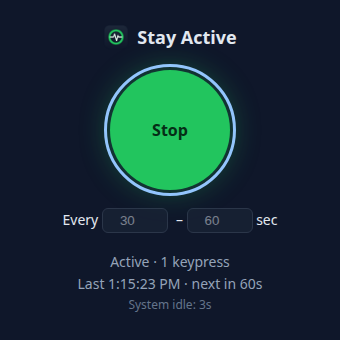
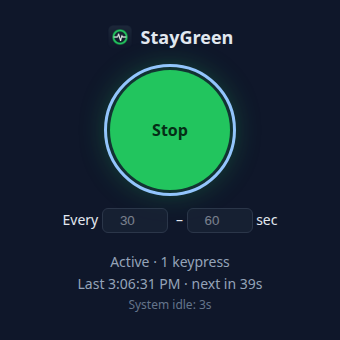
Rename to StayGreen

Changed region(s): [[0.2941, 0.0882, 0.7059, 0.1471], [0.3235, 0.8235, 0.4706, 0.8529], [0.7059, 0.8235, 0.7647, 0.8529]]

diff --git a/main.js b/main.js
@@ -11,7 +11,7 @@ const PRESS = {
 }[process.platform];
 
 const HINT = {
-  darwin: 'Grant Accessibility to Stay Active: System Settings → Privacy & Security → Accessibility',
+  darwin: 'Grant Accessibility to StayGreen: System Settings → Privacy & Security → Accessibility',
   win32: 'PowerShell failed to send a key',
   linux: 'Install xdotool (sudo apt install xdotool); Wayland is not supported',
 }[process.platform];
@@ -61,7 +61,7 @@ const show = () => (win.show(), win.focus());
 
 function updateTray() {
   if (!tray) return;
-  tray.setToolTip(on ? `Stay Active: on (${count} keypresses)` : 'Stay Active: off');
+  tray.setToolTip(on ? `StayGreen: on (${count} keypresses)` : 'StayGreen: off');
   tray.setContextMenu(Menu.buildFromTemplate([
     { label: 'Show window', click: show },
     { label: on ? 'Stop' : 'Start', click: () => (on ? stop() : start(range)) },
@@ -77,9 +77,9 @@ app.on('second-instance', () => win && show());
 app.whenReady().then(() => {
   // Chromium can't paint into a desktop session it doesn't own: as root the window comes up empty.
   if (process.platform === 'linux' && process.getuid() === 0) {
-    const msg = 'Don\'t run Stay Active as root. Start it as your normal desktop user (no sudo).';
+    const msg = 'Don\'t run StayGreen as root. Start it as your normal desktop user (no sudo).';
     console.error(msg);
-    dialog.showErrorBox('Stay Active', msg);
+    dialog.showErrorBox('StayGreen', msg);
     return app.exit(1);
   }
   const icon = nativeImage.createFromPath(path.join(__dirname, 'icon.png'));
@@ -89,7 +89,7 @@ app.whenReady().then(() => {
 
   win = new BrowserWindow({
     width: 340, height: 340, useContentSize: true, resizable: false, autoHideMenuBar: true,
-    title: 'Stay Active', backgroundColor: '#0f172a', icon,
+    title: 'StayGreen', backgroundColor: '#0f172a', icon,
     webPreferences: { preload: path.join(__dirname, 'preload.js') },
   });
   win.loadFile('index.html');

diff --git a/index.html b/index.html
@@ -3,7 +3,7 @@
 <head>
 <meta charset="utf-8">
 <meta http-equiv="Content-Security-Policy" content="default-src 'self'; style-src 'unsafe-inline'; script-src 'unsafe-inline'">
-<title>Stay Active</title>
+<title>StayGreen</title>
 <style>
   body { margin: 0; padding: 24px; font: 14px system-ui, sans-serif; background: #0f172a; color: #e2e8f0; text-align: center; user-select: none; overflow: hidden; }
   h1 { font-size: 18px; margin: 0 0 20px; display: flex; align-items: center; justify-content: center; gap: 8px; }
@@ -19,7 +19,7 @@
 </style>
 </head>
 <body>
-  <h1><img src="icon.png" alt="">Stay Active</h1>
+  <h1><img src="icon.png" alt="">StayGreen</h1>
   <button id="toggle" aria-pressed="false">Start</button>
   <div class="row">
     <label>Every <input id="min" type="number" min="5" max="3600" value="30"></label>

diff --git a/README.md b/README.md
@@ -1,29 +1,30 @@
 <p align="center">
-  <img src="icon.png" width="128" alt="Stay Active icon">
+  <img src="icon.png" width="128" alt="StayGreen icon">
 </p>
 
-<h1 align="center">Stay Active</h1>
+<h1 align="center">StayGreen</h1>
 
 <p align="center">
-  <strong>A tiny tray app that keeps Microsoft Teams, Slack & co. from marking you "Away".</strong><br>
+  <strong>Keep your Teams status green.</strong><br>
+  A tiny tray app that stops Microsoft Teams, Slack & co. from marking you "Away".<br>
   macOS · Windows · Linux
 </p>
 
 <p align="center">
-  <a href="https://github.com/TheGeekyM/stay-active-gui/releases/latest"><img src="https://img.shields.io/github/v/release/TheGeekyM/stay-active-gui?style=flat-square" alt="Latest release"></a>
-  <a href="https://github.com/TheGeekyM/stay-active-gui/releases"><img src="https://img.shields.io/github/downloads/TheGeekyM/stay-active-gui/total?style=flat-square" alt="Downloads"></a>
-  <a href="LICENSE"><img src="https://img.shields.io/github/license/TheGeekyM/stay-active-gui?style=flat-square" alt="MIT license"></a>
+  <a href="https://github.com/TheGeekyM/staygreen/releases/latest"><img src="https://img.shields.io/github/v/release/TheGeekyM/staygreen?style=flat-square" alt="Latest release"></a>
+  <a href="https://github.com/TheGeekyM/staygreen/releases"><img src="https://img.shields.io/github/downloads/TheGeekyM/staygreen/total?style=flat-square" alt="Downloads"></a>
+  <a href="LICENSE"><img src="https://img.shields.io/github/license/TheGeekyM/staygreen?style=flat-square" alt="MIT license"></a>
 </p>
 
 <p align="center">
-  <img src="assets/stopped.png" width="300" alt="Stay Active stopped">
+  <img src="assets/stopped.png" width="300" alt="StayGreen stopped">
   &nbsp;&nbsp;
-  <img src="assets/running.png" width="300" alt="Stay Active running">
+  <img src="assets/running.png" width="300" alt="StayGreen running">
 </p>
 
 ## Why
 
-Teams marks you **Away** after about 5 minutes without keyboard or mouse input. That includes the times you're reading a long doc, in a meeting room, or getting coffee. Stay Active keeps the idle timer from ever reaching that point.
+Teams marks you **Away** after about 5 minutes without keyboard or mouse input. That includes the times you're reading a long doc, in a meeting room, or getting coffee. StayGreen keeps the idle timer from ever reaching that point.
 
 ## Features
 
@@ -46,17 +47,17 @@ Inspired by [sleekhost/stay-active](https://github.com/sleekhost/stay-active), a
 
 ## Download
 
-Get the latest build from [Releases](https://github.com/TheGeekyM/stay-active-gui/releases/latest):
+Get the latest build from [Releases](https://github.com/TheGeekyM/staygreen/releases/latest):
 
 | OS | File |
 |----|------|
-| macOS (Apple Silicon) | `Stay-Active-x.y.z-arm64.dmg` |
-| Windows | `Stay-Active-Setup-x.y.z.exe` (installer) or `Stay-Active-x.y.z.exe` (portable) |
-| Linux | `Stay-Active-x.y.z.AppImage` |
+| macOS (Apple Silicon) | `StayGreen-x.y.z-arm64.dmg` |
+| Windows | `StayGreen-Setup-x.y.z.exe` (installer) or `StayGreen-x.y.z.exe` (portable) |
+| Linux | `StayGreen-x.y.z.AppImage` |
 
 ### First-run notes
 
-- **macOS:** the app is unsigned. If macOS says it is "damaged", run `xattr -cr "/Applications/Stay Active.app"`. Then allow it under **System Settings → Privacy & Security → Accessibility**, or it can't press keys. The app shows an error if permission is missing.
+- **macOS:** the app is unsigned. If macOS says it is "damaged", run `xattr -cr "/Applications/StayGreen.app"`. Then allow it under **System Settings → Privacy & Security → Accessibility**, or it can't press keys. The app shows an error if permission is missing.
 - **Windows:** SmartScreen may warn on first launch. Click **More info → Run anyway**.
 - **Linux:** needs `xdotool` (`sudo apt install xdotool`) and an X11 session. Wayland is not supported. Run `chmod +x *.AppImage` first. Run it as your normal user, not root or sudo: as root the window comes up empty, so the app now refuses and says why.
 
@@ -66,15 +67,15 @@ AppImages don't add themselves to the app menu. To get the icon in your launcher
 
 ```bash
 mkdir -p ~/.local/share/icons ~/.local/share/applications
-curl -fsSL https://raw.githubusercontent.com/TheGeekyM/stay-active-gui/main/icon.png -o ~/.local/share/icons/stay-active.png
-cat > ~/.local/share/applications/stay-active.desktop <<EOF
+curl -fsSL https://raw.githubusercontent.com/TheGeekyM/staygreen/main/icon.png -o ~/.local/share/icons/staygreen.png
+cat > ~/.local/share/applications/staygreen.desktop <<EOF
 [Desktop Entry]
-Name=Stay Active
-Exec=$HOME/Applications/Stay-Active.AppImage
-Icon=$HOME/.local/share/icons/stay-active.png
+Name=StayGreen
+Exec=$HOME/Applications/StayGreen.AppImage
+Icon=$HOME/.local/share/icons/staygreen.png
 Type=Application
 Categories=Utility;
-StartupWMClass=stay-active-gui
+StartupWMClass=staygreen
 EOF
 ```
 
